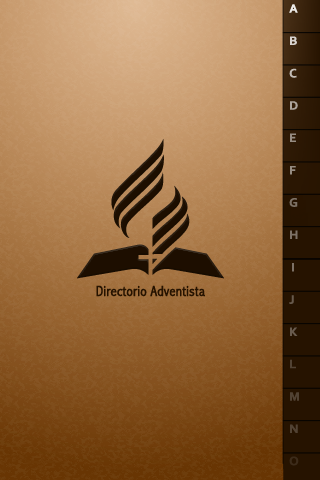
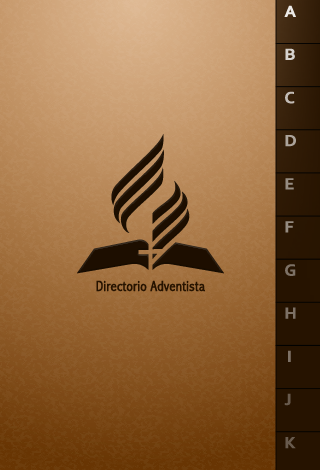
Directorio Adventista
AppAvailability v0.3.0
Corrección de teléfonos y direcciones.
Corrección de SplahScreens (Android).

diff --git a/paginas/univ/ulv-tuxtla.html b/paginas/univ/ulv-tuxtla.html
@@ -35,7 +35,7 @@
 					<td class="td-left"><img src="../../includes/iconos/direccion.png"></td>
 					<td>
 						<p>
-							Calle 5a Poniente Norte No. 515 entre 4a y 5a Norte. <br>
+							Calle 6a Poniente Norte No. 515 entre 4a y 5a Norte. <br>
 							Tuxtla Gutiérrez, Chiapas. <br>
 							C.P. 29000
 						</p>
@@ -47,7 +47,7 @@
 			<table>
 				<tr>
 					<td class="td-left"><img src="../../includes/iconos/telefono.png"></td>
-					<td><a href="tel:961-61-4-50-10">(961) 61 4 50 10</a></td>
+					<td><a href="tel:+52-961-61-4-50-10">+52 (961) 61 4 50 10</a></td>
 				</tr>
 			</table>
 			<hr class="separador">
@@ -55,7 +55,7 @@
 			<table>
 				<tr>
 					<td class="td-left"><img src="../../includes/iconos/correo.png"></td>
-					<td><a href="mailto:informacion@tuxtla.ulv.edu.mx" rel="external"> informacion@tuxtla.ulv.edu.mx </a></td>
+					<td><a href="mailto:informacion@tuxtla.ulv.edu.mx" rel="external">informacion@tuxtla.ulv.edu.mx</a></td>
 				</tr>
 			</table>
 			<hr class="separador">

diff --git a/includes/js/functions.js b/includes/js/functions.js
@@ -23,14 +23,14 @@ function abrirTwitter(userName){
             twitter = "twitter://";
         };
 
-        //Checar Twitter v0.2.1
-        appAvailability.check(twitter, function(availability) {
-            // availability is either true or false
-            if(availability) {
-                window.open("twitter://user?screen_name="+userName);
-            } else{
-                window.open("http://www.twitter.com/"+userName, "_system");
-            }
+        // AppAvailability v0.3.0
+        appAvailability.check(
+        twitter, // URI Scheme
+        function() {  // Success callback
+            window.open("twitter://user?screen_name="+userName);
+        },
+        function() {  // Error callback
+            window.open("http://www.twitter.com/"+userName, "_system");
         });
-    }  
+    }
 }

diff --git a/paginas/univ/ulv.html b/paginas/univ/ulv.html
@@ -47,7 +47,7 @@
 			<table>
 				<tr>
 					<td class="td-left"><img src="../../includes/iconos/telefono.png"></td>
-					<td><a href="tel:919-68-5-20-17">(919) 68 5 20 17</a></td>
+					<td><a href="tel:+52-919-68-5-20-17">+52 (919) 68 5 20 17</a></td>
 				</tr>
 			</table>
 			<hr class="separador">
@@ -55,7 +55,7 @@
 			<table>
 				<tr>
 					<td class="td-left"><img src="../../includes/iconos/correo.png"></td>
-					<td><a href="mailto:informacion@ulv.edu.mx" rel="external"> informacion@ulv.edu.mx </a></td>
+					<td><a href="mailto:informacion@ulv.edu.mx" rel="external">informacion@ulv.edu.mx</a></td>
 				</tr>
 			</table>
 			<hr class="separador">

diff --git a/paginas/univ/unav.html b/paginas/univ/unav.html
@@ -47,7 +47,7 @@
 			<table>
 				<tr>
 					<td class="td-left"><img src="../../includes/iconos/telefono.png"></td>
-					<td><a href="tel:642-423-30-50">(642) 423 30 50</a></td>					
+					<td><a href="tel:+52-642-423-30-50">+52 (642) 423 30 50</a></td>					
 				</tr>
 			</table>
 			<hr class="separador">

diff --git a/paginas/asoc/central-bajio.html b/paginas/asoc/central-bajio.html
@@ -47,7 +47,7 @@
 			<table>
 				<tr>
 					<td class="td-left"><img src="../../includes/iconos/telefono.png"></td>
-					<td><a href="tel:+52-477-779-69-06">(477) 779 69 06</a></td>
+					<td><a href="tel:+52-477-779-69-06">+52 (477) 779 69 06</a></td>
 				</tr>
 			</table>
 			<hr class="separador">

diff --git a/paginas/uniones/norte.html b/paginas/uniones/norte.html
@@ -48,7 +48,7 @@
 			<table>
 				<tr>
 					<td class="td-left"><img src="../../includes/iconos/telefono.png"></td>
-					<td><a href="tel:919-68-5-20-17">(919) 68 5 20 17</a></td>
+					<td><a href="tel:+52-919-68-5-20-17">+52 (919) 68 5 20 17</a></td>
 				</tr>
 			</table>
 			<hr class="separador">

diff --git a/paginas/uniones/central.html b/paginas/uniones/central.html
@@ -47,7 +47,7 @@
 			<table>
 				<tr>
 					<td class="td-left"><img src="../../includes/iconos/telefono.png"></td>
-					<td><a href="tel:55-56-39-6064">(55) 56 39 60 64</a></td>
+					<td><a href="tel:+52-55-56-39-6064">+52 (55) 56 39 60 64</a></td>
 				</tr>
 			</table>
 			<hr class="separador">

diff --git a/paginas/hospitales/carlota.html b/paginas/hospitales/carlota.html
@@ -47,7 +47,7 @@
 			<table>
 				<tr>
 					<td class="td-left"><img src="../../includes/iconos/telefono.png"></td>
-					<td><a href="tel:826-263-31-88">(826) 263 31 88</a></td>
+					<td><a href="tel:+52-826-263-31-88">+52 (826) 263 31 88</a></td>
 				</tr>
 			</table>
 			<hr class="separador">

diff --git a/paginas/hospitales/sureste.html b/paginas/hospitales/sureste.html
@@ -47,7 +47,7 @@
 			<table>
 				<tr>
 					<td class="td-left"><img src="../../includes/iconos/telefono.png"></td>
-					<td><a href="tel:993-315-12-41">(993) 315 12 41</a></td>
+					<td><a href="tel:+52-993-315-12-41">+52 (993) 315 12 41</a></td>
 				</tr>
 			</table>
 			<hr class="separador">

diff --git a/paginas/uniones/chiapas.html b/paginas/uniones/chiapas.html
@@ -47,7 +47,7 @@
 			<table>
 				<tr>
 					<td class="td-left"><img src="../../includes/iconos/telefono.png"></td>
-					<td><a href="tel:961-164-61-14">(961) 164 61 14</a></td>
+					<td><a href="tel:+52-961-164-61-14">+52 (961) 164 61 14</a></td>
 				</tr>
 			</table>
 			<hr class="separador">

diff --git a/paginas/uniones/interoceanica.html b/paginas/uniones/interoceanica.html
@@ -47,7 +47,7 @@
 			<table>
 				<tr>
 					<td class="td-left"><img src="../../includes/iconos/telefono.png"></td>
-					<td><a href="tel:222-195-27-20">(222) 195 27 20</a></td>
+					<td><a href="tel:+52-222-195-27-20">+52 (222) 195 27 20</a></td>
 				</tr>
 			</table>
 			<hr class="separador">

diff --git a/paginas/uniones/sureste.html b/paginas/uniones/sureste.html
@@ -47,7 +47,7 @@
 			<table>
 				<tr>
 					<td class="td-left"><img src="../../includes/iconos/telefono.png"></td>
-					<td><a href="tel:999-920-36-19">(999) 920 36 19</a></td>
+					<td><a href="tel:+52-999-920-36-19">+52 (999) 920 36 19</a></td>
 				</tr>
 			</table>
 			<hr class="separador">
